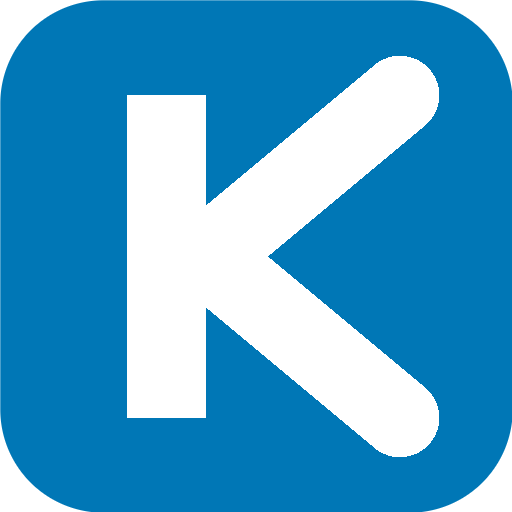
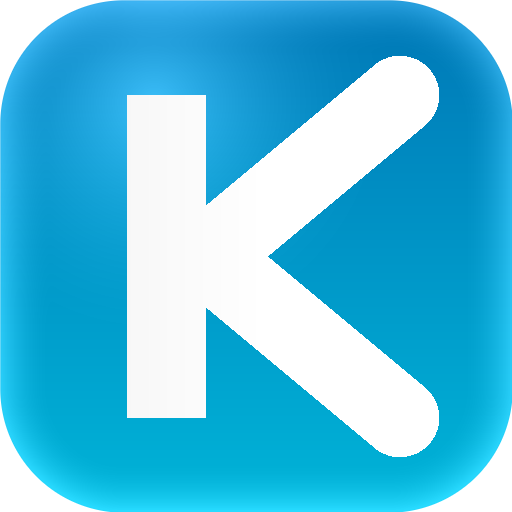
style: implement premium glass-look brand identity

diff --git a/scripts/gen-favicons.js b/scripts/gen-favicons.js
@@ -63,41 +63,64 @@ function iconPixel(x, y, size) {
   const s  = size;
   const cx = s / 2, cy = s / 2;
 
-  // Rounded-rect SDF – corner radius = 20 % of size
-  const cr = s * 0.20;
+  // Rounded-rect SDF – corner radius = 24 % of size
+  const cr = s * 0.24;
   const hw = s / 2 - 0.5, hh = s / 2 - 0.5;
   const rx = Math.abs(x - cx) - hw + cr;
   const ry = Math.abs(y - cy) - hh + cr;
-  const d  = Math.min(Math.max(rx, ry), 0) +
-             Math.sqrt(Math.max(rx, 0) ** 2 + Math.max(ry, 0) ** 2) - cr;
+  const dist = Math.min(Math.max(rx, ry), 0) +
+               Math.sqrt(Math.max(rx, 0) ** 2 + Math.max(ry, 0) ** 2) - cr;
 
-  if (d > 1.2) return [0, 0, 0, 0]; // outside
-  const bgA = Math.round(Math.min(1, Math.max(0, 1.2 - d)) * 255);
+  if (dist > 1.2) return [0, 0, 0, 0]; // outside
+  const baseAlpha = Math.round(Math.min(1, Math.max(0, 1.2 - dist)) * 255);
 
-  // Ocean Blue: #0077B6
-  const bgR = 0;
-  const bgG = 119;
-  const bgB = 182;
+  // --- Glass Background ---
+  // Ocean Blue Gradient: #0077B6 (top-ish) to #00B4D8 (bottom-ish)
+  const ty = y / s;
+  let bgR = Math.round(0);
+  let bgG = Math.round(119 + (180 - 119) * ty);
+  let bgB = Math.round(182 + (216 - 182) * ty);
 
-  // 'K' letterform in normalised coords (origin = centre, unit ≈ size*0.30)
+  // --- Glass Highlights ---
+  // 1. Top Highlight (Glare)
+  const glare = Math.max(0, 1 - Math.hypot((x - s*0.3)/s, (y - s*0.2)/s) * 2);
+  const glareAmount = Math.pow(glare, 2) * 60;
+  
+  // 2. Inner Glow / Border
+  const innerGlow = Math.max(0, 1 - Math.abs(dist + 1) * (10 / s));
+  const glowAmount = Math.pow(innerGlow, 2) * 40;
+
+  bgR = Math.min(255, bgR + glareAmount + glowAmount);
+  bgG = Math.min(255, bgG + glareAmount + glowAmount);
+  bgB = Math.min(255, bgB + glareAmount + glowAmount);
+
+  // --- 'K' Lettermark ---
   const sc  = s * 0.35;
   const nx  = (x - cx) / sc;
   const ny  = (y - cy) / sc;
   const sw  = 0.22; // stroke half-width
 
-  // Vertical stem  x ≈ -0.5
+  // Vertical stem
   const stemX = -0.5;
   const inStem = Math.abs(nx - stemX) < sw && Math.abs(ny) < 0.9;
 
-  // Arms joint
+  // Arms
   const jx = stemX + sw;
-  // Upper arm
   const inUpper = ny <= 0.1 && distSeg(nx, ny, jx, 0, 0.8, -0.9) < sw;
-  // Lower arm
   const inLower = ny >= -0.1 && distSeg(nx, ny, jx, 0, 0.8, 0.9) < sw;
 
-  if (inStem || inUpper || inLower) return [255, 255, 255, bgA];
-  return [bgR, bgG, bgB, bgA];
+  if (inStem || inUpper || inLower) {
+    // White K with subtle depth
+    const kHighlight = (nx + 1) * 10;
+    return [
+      Math.min(255, 245 + kHighlight), 
+      Math.min(255, 245 + kHighlight), 
+      Math.min(255, 245 + kHighlight), 
+      baseAlpha
+    ];
+  }
+
+  return [bgR, bgG, bgB, baseAlpha];
 }
 
 // ── Generate PNGs ─────────────────────────────────────────────────────────────

diff --git a/components/Sidebar.tsx b/components/Sidebar.tsx
@@ -235,8 +235,8 @@ export function Sidebar() {
 
               <div className="h-20 flex items-center justify-between px-6 border-b border-border dark:border-white/5 bg-white/5">
                 <Link href="/" className="flex items-center gap-3 group">
-                  <div className="w-9 h-9 rounded-xl bg-ocean flex items-center justify-center text-white shadow-lg shadow-ocean/20 group-hover:scale-105 transition-all">
-                    <span className="brand-wordmark text-xl leading-none mt-0.5">K</span>
+                  <div className="w-10 h-10 rounded-xl glass-icon flex items-center justify-center text-white shadow-lg shadow-ocean/25 group-hover:scale-105 transition-all">
+                    <span className="brand-wordmark text-xl leading-none mt-0.5 drop-shadow-sm">K</span>
                   </div>
                   <div className="flex flex-col">
                     <span className="brand-wordmark text-xl tracking-tight leading-none text-text dark:text-white">
@@ -263,8 +263,8 @@ export function Sidebar() {
       <aside className="hidden md:flex fixed top-0 left-0 bottom-0 w-[280px] rounded-r-[32px] sidebar-glass z-30 flex-col overflow-hidden">
         <div className="h-24 flex items-center px-8 border-b border-border dark:border-white/5 bg-white/5">
           <Link href="/" className="flex items-center gap-3 group">
-            <div className="w-10 h-10 rounded-xl bg-ocean flex items-center justify-center text-white shadow-lg shadow-ocean/20 group-hover:scale-105 transition-all">
-              <span className="brand-wordmark text-2xl leading-none mt-1">K</span>
+            <div className="w-11 h-11 rounded-xl glass-icon flex items-center justify-center text-white shadow-lg shadow-ocean/25 group-hover:scale-105 transition-all">
+              <span className="brand-wordmark text-2xl leading-none mt-1 drop-shadow-sm">K</span>
             </div>
             <div className="flex flex-col">
               <span className="brand-wordmark text-2xl tracking-tight leading-none text-text dark:text-white">

diff --git a/components/Footer.tsx b/components/Footer.tsx
@@ -9,8 +9,8 @@ export function Footer() {
       <div className="flex flex-col md:flex-row items-center justify-between gap-8 pb-12">
         <div className="space-y-4 text-center md:text-left">
           <Link href="/" className="flex items-center gap-3 group justify-center md:justify-start">
-            <div className="w-8 h-8 rounded-xl bg-ocean flex items-center justify-center text-white shadow-lg shadow-ocean/20 group-hover:scale-105 transition-all">
-              <span className="brand-wordmark text-lg leading-none mt-0.5">K</span>
+            <div className="w-9 h-9 rounded-xl glass-icon flex items-center justify-center text-white shadow-lg shadow-ocean/25 group-hover:scale-105 transition-all">
+              <span className="brand-wordmark text-lg leading-none mt-0.5 drop-shadow-sm">K</span>
             </div>
             <div className="flex flex-col text-left">
               <span className="brand-wordmark text-xl tracking-tight leading-none text-text dark:text-white">

diff --git a/components/Header.tsx b/components/Header.tsx
@@ -44,8 +44,8 @@ export function Header() {
           </button>
 
           <Link href="/" className="flex items-center gap-3 group">
-            <div className="w-8 h-8 rounded-xl bg-ocean flex items-center justify-center text-white shadow-lg shadow-ocean/20 group-hover:scale-105 group-active:scale-95 transition-all duration-300">
-              <span className="brand-wordmark text-lg leading-none mt-0.5">K</span>
+            <div className="w-9 h-9 rounded-xl glass-icon flex items-center justify-center text-white shadow-lg shadow-ocean/25 group-hover:scale-105 group-active:scale-95 transition-all duration-300">
+              <span className="brand-wordmark text-lg leading-none mt-0.5 drop-shadow-sm">K</span>
             </div>
             <div className="flex flex-col">
               <span className="brand-wordmark text-lg md:text-xl tracking-tight leading-none">

diff --git a/app/globals.css b/app/globals.css
@@ -85,6 +85,33 @@
     font-style: italic;
   }
 
+  .glass-icon {
+    background: linear-gradient(135deg, #0077B6 0%, #00B4D8 100%);
+    position: relative;
+    overflow: hidden;
+  }
+
+  .glass-icon::before {
+    content: '';
+    position: absolute;
+    top: 0;
+    left: 0;
+    right: 0;
+    height: 50%;
+    background: linear-gradient(to bottom, rgba(255,255,255,0.4) 0%, transparent 100%);
+    border-radius: inherit;
+    pointer-events: none;
+  }
+
+  .glass-icon::after {
+    content: '';
+    position: absolute;
+    inset: 0;
+    border: 1px solid rgba(255,255,255,0.2);
+    border-radius: inherit;
+    pointer-events: none;
+  }
+
   .hairline-rule {
     height: 1px;
     background: linear-gradient(to right, transparent, var(--border), transparent);
